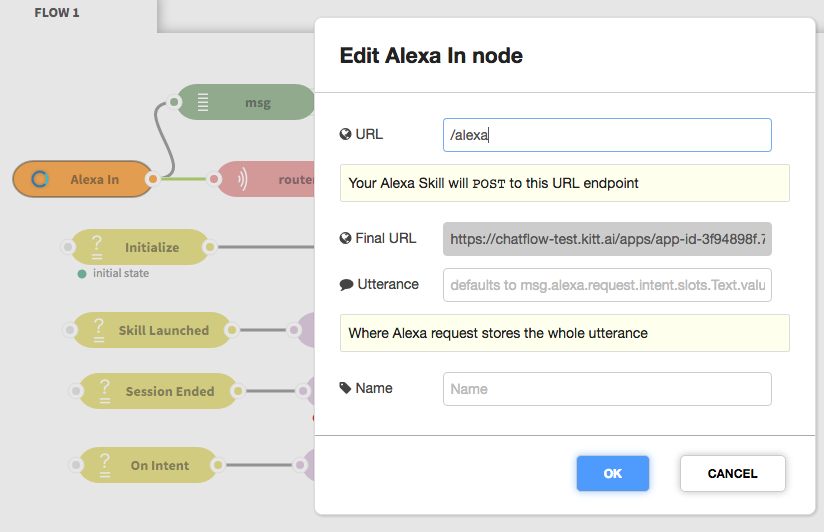
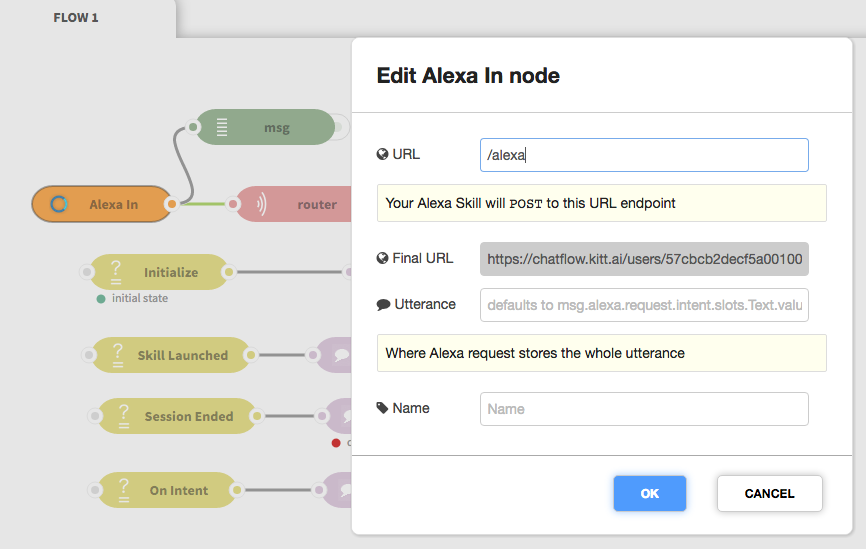
alexa europe

diff --git a/chatflow/searchindex.js b/chatflow/searchindex.js
@@ -1,1 +1,1 @@
-Search.setIndex({envversion:49,filenames:["alexa","alexa_advanced","alexa_nlu","build_a_bot","dialogue_nodes","extended_example","facebook","index","kik","oauth2","quickstart","slack","telegram","twilio"],objects:{},objnames:{},objtypes:{},terms:{"479c":[3,4,5,6,8,11],"900584f4":[3,4,5,6,8,11],"boolean":0,"break":[1,5],"catch":[11,12],"default":[0,2,3,5,9,11],"final":[0,1,2,3],"function":[1,3,4,5,8,9],"import":2,"long":[2,5,9,11],"new":[0,1,2,3,5],"null":[1,3,4,5,9,12],"return":[1,3,5,6,8,9,11,12,13],"short":[9,11],"switch":[5,9],"true":[0,1,5],"try":[3,5,9,10,11,12,13],"var":[1,5,9,12],"while":0,_access_token:0,_respons:[5,9,13],_session_end:[0,1],_session_id:[0,6,8,11,12],_session_start:0,_skill_launch:0,_timeout:[0,6,8,12],_user_id:[0,6,8,11,12],abil:[1,3,11],abl:[0,1,3,6,8,9,10,11,12,13],about:4,abov:[4,5,12],accept:[4,5,8,9,11,12,13],access:[0,1,3,4,5,6,7],accesstoken:0,accomplish:4,accord:4,accordingli:[5,13],account:[0,5,7,9,10],achiev:0,acquir:9,acqusit:9,across:[0,1],act:[3,4],action:[0,4,5,8,9,11,12,13],activ:[3,12],activat:13,actual:0,add:2,addit:[0,1,3,4,5,6,8,11,12,13],addition:[0,4,5],address:[0,3,5,9,12,13],adequ:5,administr:11,affirm:5,after:[0,1,3,4,5,6,8,9,11,12,13],afterward:3,again:[3,5,9],against:0,agent:[3,4,5,7],agre:[4,5,9],ahead:[3,12],all:[0,1,2,3,4,5,6,9,11],allow:[4,5,10,11,12,13],allowfullscreen:11,almost:[1,4],alphanumer:13,alreadi:[0,5,10,12,13],also:[0,1,2,4,5,8,9,11,12,13],although:[5,6],alwai:[3,13],amazon:[0,1,2,4,7],among:4,amus:3,analyz:3,ani:[1,2,4,5,6,9,10,11,13],anoth:[0,1,3,4,5,9,13],answer:[3,5,6,8,11],any:5,anyth:[3,5,10],api:3,aplic:13,appear:[0,2,3,5,12],applciat:6,appliact:6,applic:[0,1,3,5],application:3,appreci:5,appropri:[4,5,10,11],arbitrari:4,area:[10,13],arrai:[6,8],array_of:6,arriv:13,arrow:[6,12,13],articl:12,asset:[1,2],assign:[0,1,4,9],assist:2,associ:3,associat:5,assum:[9,12],atch:[1,2],attach:[3,6,7],attempt:1,attribut:1,auth:13,authent:[9,11],author:[4,9,11],automat:[0,9,13],avail:[0,4,5],availalb:0,awai:1,back:[0,3,4,5,6,8,9,11,12],background:2,base:4,basi:3,basic:[2,3],beat:1,becaus:[0,1,3,9],becom:10,been:5,beet:[1,2],befor:[0,3,9,11,12],behalf:9,bell:7,belong:9,below:[2,3,4,5,8,9,11,13],berri:[1,2],besid:3,bet:3,better:5,between:[3,4,9,12],biggest:9,blue:[3,6,12,13],bob:4,bodi:[3,5,8,9,13],boo:[1,2],bookend:4,bootstrap:2,botfath:12,both:[0,3,5,6,8,9],bother:9,botsworth:8,bottom:[1,3],bought:13,box:[1,3,4,5],branch:[3,4],brief:7,broken:[1,2],brows:12,browser:[0,1,3,5],bubbl:3,bucket:4,bui:[3,13],build:2,built:[3,4],busi:[5,12],businesstyp:5,button:3,bye:[5,9,13],call:[0,1,2,3,4,5,9,12],callback:[0,11],cambridg:6,camelcas:13,can:[0,1,2,3,4,5,6,7,8,9,10,11,12,13],cancelint:1,candid:5,cannot:[1,3,6],canva:[3,5,8,10,11,12],capabl:[5,13],capac:12,captur:[0,4,12],cardoutput:1,cardpunchlin:1,care:5,cast:11,categori:[4,6,12],cellphon:0,central:4,certain:12,certificat:0,chaflow:11,chain:11,chang:[0,3,9,11],channel:[4,11],charact:13,chat:[3,5,8,9,10,11,12],chatflow_cat_choos:11,chatid:8,check:[0,3,4,5,6,8,9,11,13],checkbox:[4,9,11],chicago:12,chines:[5,12],choic:4,choice_nam:5,choos:[4,5,6,8],chosen:[3,4,5],citi:6,clarifi:5,clean:[3,6,10,11],clear:9,cleveland:6,click:[0,1,2,3,5,6,8,9,10,11,12,13],client:[9,11],client_id:11,clipboard:[0,3,6,8,9,11,12,13],close:[0,5,13],code:[1,3,4,5,8,9,13],coffe:5,collect:4,com:[8,9,12],combin:5,come:[0,1,3,4,9,13],command:[7,9],comment:13,common:[4,9],commun:[4,7,9],compact:12,compat:9,complet:[1,3,7,9,11],complex:[1,5],complianc:0,compris:4,condit:[3,4,5,9,13],config:6,configr:9,confirm:[4,12],conjunct:7,connect:[3,4,5,6,7,8,9],consid:4,consist:4,consol:[0,2,13],constraint:4,construct:[7,11],consum:[5,12],contact:12,contain:[2,3,4,6,8,10,11,12,13],context:[3,4,7],continu:[0,3],control:[6,8,11,12],conveni:5,convent:3,convers:1,coordin:12,corner:[3,6,8,11,12,13],correct:[1,2,3],correspond:[4,5,8,9,10,11],correspondingli:11,cortana:4,could:4,count:[3,4,9],counter:[6,13],cours:[3,4,5],cover:12,craft:9,create:[3,6,8,11,12],create_facebook_app:6,creation:[3,8],credenti:[3,9,11],criteria:[3,4],crucial:5,current:[0,1,3,4,6,10,11,12],custom:[2,7],dai:6,dash:[4,5],dashboard:[6,9,13],data:[2,9,11],databas:9,deal:0,debug:7,defin:[0,2,3,4,5,9],definit:5,delet:4,delici:5,demand:4,demonstr:[0,12],depend:9,deploi:0,deploy:[0,1,3,4,5,6,8,11],deploymnet:8,describ:[4,6,8],descript:[5,9,11,12],descripton:7,design:4,desir:5,desktop:12,detail:[4,5,8,9,11,12,13],determin:5,dev:8,develop:[0,2,4,5,9],devic:[0,1,8],dialog:9,dialogu:[1,3],dictat:3,dictionari:5,did:[0,9],didn:[3,5],differ:[0,3,4,5,8,9,11],dinner:12,direct:3,directli:[4,5,10],disabl:11,disastr:5,discuss:0,displai:[0,13],display_address:12,display_nam:9,district:5,document:[4,5,6,7,9,13],doe:[0,1,2,3,4,5,8,11,12,13],domain:0,don:[3,5,8,9,12,13],done:0,dont:5,dot:3,doubl:[3,5,6,8,9,11,12,13],down:[3,5,6,11,12,13],download:[3,5,6,8,9,11,12,13],downtown:12,drag:[3,5,6,8,11,12],drive:4,drop:[3,6,9,11,12,13],dump:3,duplic:13,dure:4,each:[3,4,5,6,9,10,11,13],easi:5,easier:5,easili:[1,2,3,4],eat:5,edit:[3,5,6,8,9,11,12,13],editor:[3,4,5,9,10,11,12],effect:5,either:[3,5,6,8,11,12],elig:4,els:[3,5,10,12],email:6,empti:[3,9,10,12],enabl:[0,9,11,12,13],enabled:12,encod:12,end:[0,1,3,4,5,6,8,9,10,11,12,13],endless:4,endpoint:[9,11],engag:0,engin:[2,7],enjoi:2,ensur:[4,5],enter:[0,1],entir:[3,4,5],entiti:[1,2,3,4,5],entranc:[3,4,5],entri:4,entrnac:5,enum_choic:5,environ:1,equal:4,err:12,error:5,especi:13,evalu:4,even:[4,9],everi:[9,12],everyth:[0,1,2],exampl:[0,2,3,4],except:2,exchang:9,execut:[4,5],exemplifi:12,exist:[4,9],exit:[0,3,4],expand:[3,12],expect:[0,2,11,12],expir:9,explicit:4,explicitli:0,explor:6,express:2,extern:[0,4,7],extra:13,extract:5,fade:9,faebook:6,fake:[9,13],fals:[0,5],far:[0,5],fast:12,father:12,featur:[2,3,5,6,9,11,13],feedback:5,feel:[3,5,12],fetch:9,few:[4,7],field:[2,3,4,5,6,9,11,12,13],figur:[3,5],file:[1,2,3,5,12],fill:[0,2,9,13],filter:6,find:[3,5,11,13],finit:[3,4],finsh:13,firebrand:2,first:[0,3,4,5,8,9,13],first_nam:9,floor:1,flow:3,fly:2,follow:[0,1,2,3,4,5,6,8,9,11,12,13],food:[5,12],forc:0,forget:[5,8,9],forgotten:9,form:[0,3,4,5,13],format:0,forth:12,found:[0,5,12],four:5,fourth:9,framebord:11,francisco:5,from:[0,1],full:12,fulli:[3,5],fun:9,further:[0,5],game:11,gener:[2,4,5,6,9],geoloc:12,get:[0,1,3],github:10,give:[0,1,2,3,5,8,9,12],given:[0,1,5,9],glad:5,global:[1,8,9],goal:[4,5],goe:4,good:[5,9],goodby:[5,10],googl:[4,10],got:[5,12],gotta:0,gps:12,grai:9,grammar:1,gratitud:5,great:[0,2,5,10],greater:4,greet:[5,6,9,11],grei:3,grid:[11,12,13],guarante:13,gui:[1,2],guid:5,had:[3,9],halt:3,hand:[6,11,12,13],handl:[0,3,5],happen:[4,11],happi:[2,5],have:[0,1,2,3,4,5,9,11,12,13],head:3,hear:5,heard:0,hello:[0,3,5,6,9,10,11,12],help:[0,1,5,9,11],helpintent:1,her:9,here:[0,3,4,5,7,8,9,11,13],high:13,highlight:[1,13],him:8,histori:9,hit:[1,13],hmm:5,hold:[0,4],holder:12,home:3,honor:3,hope:2,host:[9,10],hour:[5,9],how:[0,1,2,3,4,5,6,8,9,10,11,12,13],howev:[0,3,6,13],http:[3,4,5,6,8,9,10,11,12],human:12,icon:[9,13],idea:[5,9,11],ident:4,identifi:9,idl:13,illustr:3,imag:[3,4,8,9,11,12],image_url:[5,12],immedi:[2,4,9],implement:2,improv:2,inaccur:2,includ:[3,4,5,12],incom:[0,4,11,13],incorpor:2,increas:13,index:1,indic:1,individu:11,infinit:4,info:[4,5,10],info_request:5,inform:[0,3,5,8,9,10,12],init:1,initi:[1,3,4,5,13],initial:3,inlin:12,inline:7,inline_queri:12,inlinequeryresult:12,input:[0,1],input_message_cont:12,inqueri:12,insert:3,insid:[3,11],insight:0,insist:3,inspect:0,install:8,installer:[6,12,13],instanc:4,instead:[0,12],instruct:0,integr:[5,11],integrat:11,intentrequest:0,inter:4,interact:[0,2,3,4,5,7,8,9,10],interfac:[1,2,5,7],intern:4,introduc:[0,3],intuit:[1,7],invoc:0,involv:4,isn:9,issu:[3,5],javascript:4,job:4,join:[12,13],joke_list:1,jokeid:1,jose:3,json:[2,3,5,6,8,11,12],jump:12,just:[3,5,9,13],keep:[3,5,7,9],kei:[4,5,8,9,12],kept:9,kevin:2,keyboard:7,kik:7,kikbot:8,kill:13,kind:5,kit:[0,2],kitt:[0,1,2,3,4,5,6,8,9,10,11,12,13],kitt_skill_launch:0,know:[0,9,13],label:4,ladi:[1,2],languag:0,last:[4,5,9],later:[0,1,4,9,11],latitud:12,launchrequest:0,learn:[4,10,11,12],leav:[3,9,13],left:[3,10,11,13],lefthand:3,length:[1,5,9,12,13],let:[0,3,5,8,9,11,12],librari:[4,6,10,11,12,13],like:[0,3,4,5,6,8,9,11,13],limit:[1,5,11],limitless:4,line:[0,4,5,9],link:0,list:[2,3,4,5,6,11,12,13],list_of_setup_names:1,list_of_setupnam:2,listen:0,literal:0,littl:[1,2,3],load:[3,6],locat:[4,5],log:[0,10,13],login:9,longer:13,longitud:12,look:[0,1,3,5,6,8,9,10,11,12,13],loop:[4,5],lower:9,luckili:2,macleod:2,made:[4,5],mai:[4,5,6,8,9,11,13],main:[1,3,4,10,13],maintain:1,make:[0,1,2,4,5,8,9,11,12,13],make_restaurant_reserv:4,manag:[1,6,9,11,12],mani:[3,4,9],manipul:4,manner:[9,12],manual:[2,13],map:[3,4],mari:4,mark:[2,3,4,5],match:[0,2,4],math:1,matsuhisa:4,mean:4,mechan:4,meeting_loc:4,member:11,mention:[11,12],menu:[11,12,13],messag:[0,1,3,4,5,6,7,8,9,10],message_text:12,messeng:[6,7],met:4,method:[9,12],mexican:5,microsoft:4,mid:6,might:[0,5],migrat:2,minim:2,minut:2,mistak:5,mock:9,mockdatabas:9,mode:[12,13],model:[0,2,3,5],month:9,morn:5,most:4,mostli:[5,9],movi:4,msg:[0,1,3,4,5,6,8,9,11,12,13],much:5,multi:0,multipl:[1,4,13],music:2,must:[3,4,5,6,13],nacho:5,nah:3,name:[0,1,2,3,4,5,6,8,9,11,12,13],navig:10,necessari:5,need:[1,2,3,4,5,9,11,12],neg:5,negative_respons:3,neither:5,network:[3,4,5],never:3,newbot:12,newli:[3,6],next:[0,1,5,6,9,12],nice:[11,12,13],night:5,nlu:0,non:5,none:[4,5],nope:5,nor:5,note:[4,13],noth:3,notic:13,now:[0,1,3,5,6,9,10,11,12,13],number:[3,4,5,7,11,13],numresult:5,oauth2:7,oauth:9,object:[0,4,6,9,11],observ:2,obtain:[5,9],occurr:4,offici:10,often:4,okai:[5,12],old:[1,2,9],onc:[3,4,5,9,11],once:[3,4,5,9,11,12],one:[1,3],onli:[0,2,3],onlin:[6,11,12],only:9,onto:[0,3,6,8,11],oop:5,open:[0,3,5,6,8,9,11,12,13],oper:[3,5],opit:0,opportun:4,optim:3,option:[0,3,4,5,6,8,9,12,13],order:[3,4,5,9,11,12,13],organ:[4,6],orient:10,origin:[3,4,6,8,12],other:[3,4,5,6,9,11,12,13],otherwis:[0,3,6,7],our:[3,4,5,6,7,8,10,11,12],ourselv:0,outcom:5,outgo:[0,4],output:[0,1,2],outputspeech:[0,1],outsid:4,over:[1,3,4],overriden:13,owl:[1,2],own:[0,4,9,12,13],packag:5,padlock:13,page:[3,5],pain:2,pair:[3,4],palett:[6,9,12],panel:[9,13],paradigm:5,part:[4,5,6,8,9,11,13],partial:3,participant_nam:4,party_s:4,pass:[3,4,9],past:[0,3,4,5,6,8,9,11,12,13],payload:[0,3,4,5,6,8,9,11,12,13],payment:13,pencil:[1,2,9],peopl:4,perfect:0,perform:[0,2,4,5],perk:12,persist:[0,1,3,4,9],perviou:[0,5],phase:1,phone:[0,9,12,13],photo:12,phrase:[2,5],pic:0,pick:[0,5],pictur:[4,11],piec:9,place:[3,4,5,9,11,12],plai:[0,3,5,12],plaintext:0,platform:[3,4,7,10],pleas:[1,2,3,4,5,9],plu:9,plug:0,png:12,point:[1,4,5],polici:9,pop:[2,3,10],popul:[10,12],portion:8,posit:5,positive_respons:3,possibl:[4,9],post:11,pre:4,precis:4,predefin:9,predict:2,prefix:3,prepar:[5,7],present:4,press:[9,11,12,13],prevent:4,previou:[1,2,11,13],previous:9,price:4,primari:9,print:[9,13],prioriti:[4,5],privaci:[0,9],problem:[5,9],proce:[1,9],proceed:3,process:2,produc:[3,4,5],product:[0,6],profil:9,program:[12,13],prompt:5,properti:[0,3,4,5,9,11,12,13],protect:9,provid:[0,2,4,5,7,8,9,10,11,12,13],publish:0,push:12,put:5,queri:4,quick:[6,7],quickli:2,quota:11,rain:6,random:[1,6,11],randomcat:11,randomli:5,rank:4,rate:[5,12],rather:4,raw:[3,11],raw_messag:11,raw_message_properti:11,reach:[3,4,11],read:[9,13],readi:[5,11],real:[0,3,9],receiv:[4,6,8,9,11,12,13],recent:5,recipi:[6,13],recognit:0,recommend:[0,13],reconsid:3,recreat:1,red:[3,4],redefin:13,redeploi:11,redicrect_uri:11,redirect:9,ref:6,refer:[5,6,8],reflect:0,refresh:[9,10],regard:12,regex:4,regist:[0,8],registr:13,regular:2,reivew:5,reject:[4,5],relat:9,rememb:[1,4],remot:0,remov:[3,5,9,13],repeat:[0,5,6,11],replac:13,repli:[0,6],repres:4,represent:12,reproduc:2,reprompttext:1,req_pend:5,reqreadi:5,request_address:5,request_hour:5,request_more_opt:5,request_r:5,request_suggest:5,requir:[5,9,11,12],reserv:4,reset:[4,13],resourc:[7,9,10],respect:[2,3],respond:[0,5,10,11,12,13],respons:[0,3,4,5,9,12],rest:[0,4,9],restaur:5,restaurant_nam:4,restful:3,restor:9,restrict:3,result:[3,4],retriev:[1,9],revers:7,review:[5,12],review_count:[5,12],ride:9,right:[1,3,4,6,8,10,11,12,13],robust:5,room:4,rough:12,router:[0,1],rule:9,run:[4,13],sai:[0,1,2,3,4,5,10],said:[0,3,5],same:[0,1,4,5,8,9],san:5,satisfi:4,save:[5,6,9,11,12,13],scan:8,scenario:[5,9],schema:[0,1,2],scope:9,screen:[3,4,13],screenshot:12,seafood:12,seamlessli:5,search:[5,6,12,13],seattl:[5,12],second:[0,5,9,13],secret:[5,9,11,12],section:[0,2,3,4,5,6,8,9,10,11,12,13],see:[0,1,3,4,5,6,8,9,11,13],select:[0,1,3,4,5,6,8,9,10,11,12],selectbot:[11,12],send:[0,1,4,6],sender:[6,8,13],sendvenu:12,sens:4,sensit:3,sent:[0,4,8,11,12,13],sentenc:[0,3],separ:6,seq:6,sequenc:[4,6],serv:11,server:[0,8,9,11,12],servic:[0,1,4,7],session:[0,1,3,6,7,9,11,12],sessionattribut:[0,1],sessionendedrequest:0,sessionid:0,set:[0,1,3,4,5,6,7],setinlin:12,setinlinegeo:12,setup:1,setupnam:[1,2],setupnamewhoint:[1,2],sever:[4,10],shall:3,share:[9,12],shift:5,should:[0,2,3,4,5,6,8,9,11,12,13],shouldendsess:0,show:[0,2,3,6,8,11,12,13],showcas:5,shown:[2,3,4,9,13],sid:13,side:[10,11,13],sign:[5,13],similar:5,similarli:1,simpl:[0,3,5],simpli:[0,3,4],simplic:9,simplifi:9,simplist:12,simul:[0,1],sinc:3,singl:[0,3],situat:5,six:4,skip:[6,9,13],slack:7,slash:7,slot:[0,1,2],slowli:0,small:[5,11],smart:[0,7],smooth:[0,2],sms:[4,7,9,13],snow:[1,2],solid:4,solut:2,some:9,someon:12,someth:[3,5,8],sorri:[3,5],sound:5,sourc:[1,9],speak:1,special:[3,9],specif:[0,3,4,5,8,9],specifi:[0,3,9],speech:[0,1,2,5,7],speechpunchlin:1,speechtext:1,spell:[1,2],split:[9,12,13],split_len:12,ssml:[0,1],stage:1,stai:12,star:5,start:[0,3],start_citi:9,state:0,state_choic:5,statu:5,step:[0,1,2,6,9,11],sticker:12,still:[1,2,4,5,7,9,12],stop:9,stopintent:1,storag:9,store:[1,3,5,6,9],str:5,string:[0,3,4,6,8,11,13],structur:[0,12],style:2,sub:13,submit:[0,3],subscrib:6,subscript:6,successfulli:[1,11],sue:4,suggest:[0,5,8],superint:0,support:[0,1,2,3,5,7,8,11,12],sure:[3,5,13],symbol:4,system:[2,3,4,5],tab:[3,4,5,9,10],taco:5,tag:[0,1,3,5,8,11,12,13],take:[0,1,5,9,12],taken:13,talk:[10,12],tap:8,task:10,teach:2,telegram:[7,11],tellmeajokeint:[1,2],templat:3,ten:5,term:[5,9],text:[0,1,3,5,6,7,8,9,11,12,13],than:[3,4,9],thank:[3,5],thei:[4,9,11],them:[0,2,3,5,6,8,9,11,12,13],thi:[0,1,2,3,4,5,6,7,8,9,10,11,12,13],thing:2,think:4,third:[5,9,13],those:[0,5,9,13],thought:4,three:[0,2,5,11],through:[0,1,3,4],throughout:[4,5],thu:[1,3],thumb_url:12,tidi:[11,12,13],time:[0,1,3,4,5,9,12,13],timeout:[6,12],timestamp:6,titl:12,togeth:[3,5,8],token:[0,3,4,5,6,8],tokyo:5,too:[4,8,9,13],tool:0,top:[3,8],touch:8,toward:3,train:3,tri:9,trial:13,trick:0,trim:12,tune:13,twilio:[4,7],twitter:10,two:[0,3,4,5,9,11,12],type:[0,1,2,4,5,8,10,12],typic:4,uber:[4,7],uber_oauth2:9,ultim:0,unchang:[9,13],under:[0,3,4,5,6,7,10,11,12],understand:[0,3,4],unicod:13,uniqu:[8,11,12],univeristi:5,unlik:4,unlike:4,unpublish:0,updat:[3,4,5],update:4,upon:9,upper:[3,6,8,9,11,12],uri:11,url:[0,1,3,4,5,6,8,9],usabl:9,usag:0,use:[1,3,5,6,8,9,10,11,12],user:[0,1,2,3,4],user_choic:5,userid:0,usernam:[8,11,12],using:[1,8],usual:4,utter:[0,1,2,3,4,5],valid:9,valu:[0,4,5,6,9,13],vari:4,variabl:[1,3,4,5,8,11,13],variou:[7,10],venu:12,verbatim:0,verbos:2,veri:[0,9],verif:6,verifi:6,version:0,via:[1,4,9,12],viabl:4,view:[11,12,13],visibl:13,visit:[1,4,11],visual:7,vocabulari:[0,4],voic:0,vote:11,wai:[0,3,4,7,9,13],wait:[0,3,10],walk:[1,3,5,9],walkthrough:0,want:[0,4,5,9,12,13],washington:5,web:[4,8,9,10],webhook:[0,6,11],welcom:[0,5],well:5,were:9,what:[0,1,2,3,4,5],when:[0,1,3,4,5,6,8,9,10,11,12,13],whenev:[1,3,4,5,11],where:[4,5,6,8,9,10],whether:[3,5],which:[0,3,4,5,8,9,13],whistl:7,who:[0,1,2],whole:[0,1,13],whom:1,whosthereint:[1,2],wildcard:0,window:[3,9,12],wire:[3,4,12],wise:[1,2],wish:[3,5],within:[1,2,3,4],without:[0,1,3,9,13],won:9,woo:[1,2],word:[0,4],work:[0,1,4,5,7,11,12],workspac:6,world:[4,9,10],would:[0,3,5,6,8],wrap:[0,4],wrapper:4,write:[5,8,11,13],written:6,wrong:9,xuchen:8,xxx:[3,4,5,6,8,11],yeah:5,yellow:13,yelp:4,yelp_result:5,yet:[3,5,9],you:[0,1,2,3,5,6,8,9,10,11,12,13],yourself:10,zero:4,zip:5},titles:["Alexa Skill Tutorials","Advanced Alexa Skill Tutorial","Advanced Alexa Skill NLU Tutorial","ChatFlow Build A Bot Tutorial","Dialogue Nodes","Extended Example: A Conversational Yelp Bot","Facebook Tutorials","Welcome to ChatFlow","Kik Bot Tutorials","OAuth2/Uber Tutorials","ChatFlow Quick Start","Slack Bot Tutorials","Telegram Bot Tutorials","Twilio Bot Tutorials"],titleterms:{"case":[3,5],"export":[2,3],"final":[4,5],"function":13,"import":[3,6,8,11,12],"new":[6,10,11,12,13],about:5,access:[9,10],account:13,acquir:12,add:[3,13],adding:3,advanc:[0,1,2,6,8,11,13],alexa:[0,1,2],answere:5,api:[4,12],app:[0,1,3,8,10,11,13],applic:[6,8,9,11],applicat:[1,8,9,11,12,13],ask:0,attach:8,attachment:8,aware:12,basic:[4,13],bot:[0,3,5,6,8,9,11,12,13],browser:8,build:3,button:6,card:0,cat:[0,8,11],certif:0,chatflow:[0,1,3,4,6,7,8,10,11,12,13],choic:5,choos:11,collect:5,color:8,command:11,companion:0,configur:[0,3,4,5,9,11,12,13],connect:11,content:[0,1,2,3,4,5,6,7,8,9,10,11,12,13],convers:[3,5],copi:0,creat:[0,1,2,3,5,6,8,9,10,11,12,13],credenti:12,custom:8,deal:3,debug:13,demo:8,deploi:[3,11,12,13],descripton:9,dialogu:4,direct:4,echo:[0,6,8,11,12],enter:[3,4],exampl:5,explain:1,extend:5,facebook:6,finish:0,flow:[4,5,9,12],forecast:6,format:2,free:3,from:[3,4,5,10,13],fulfil:5,get:5,informat:[0,5],initial:5,inline:12,input:[3,4],intent:0,interact:11,introduct:[0,1,2,3,5,9,10,13],joke:1,keyboard:8,kik:8,knock:1,languag:3,launch:0,link:4,locat:12,lunch:3,messag:11,miss:5,mobil:8,more:0,multi:1,natur:3,nlu:[2,3,4,5,6,8,11],node:[0,3,4,6,8,9,11,12,13],oauth2:9,onli:4,ordere:4,out:[0,6,8,11,12,13],output:[3,4],overview:1,page:6,prefer:4,prepar:13,present:5,process:3,project:[2,5,10],queri:5,question:5,quick:10,reconfigur:3,redirect:11,regist:9,reprompt:0,request:[0,5],result:5,reus:9,revers:13,router:[3,4,13],sampl:[0,10],scratch:[3,13],send:8,servic:9,session:13,set:[8,11,12],setup:[6,8,11,12],simpl:[6,8,9,11,12,13],skill:[0,1,2],slack:11,slash:11,ssl:0,start:[5,10],state:[1,3,4],statu:12,summari:[2,4],support:13,tabl:[0,1,2,3,4,5,6,8,9,10,11,12,13],team:11,telegram:12,tell:[0,1],templat:6,test:[0,9,11],thought:5,through:5,todo:[0,8,11],token:[9,12],track:1,turn:1,tutori:[0,1,2,3,6,8,9,11,12,13],twilio:13,uber:9,unabl:3,understand:5,url:11,user:5,utteranc:0,video:[0,1,3,6,8,9,11,12,13],walkthrough:[3,8,12],weather:6,welcom:7,wisegui:1,yelp:[5,12],your:[0,5,11]}})
+Search.setIndex({envversion:49,filenames:["alexa","alexa_advanced","alexa_nlu","build_a_bot","dialogue_nodes","extended_example","facebook","index","kik","oauth2","quickstart","slack","telegram","twilio"],objects:{},objnames:{},objtypes:{},terms:{"479c":[3,4,5,6,8,11],"900584f4":[3,4,5,6,8,11],"boolean":0,"break":[1,5],"catch":[11,12],"default":[0,2,3,5,9,11],"final":[0,1,2,3],"function":[1,3,4,5,8,9],"import":2,"long":[2,5,9,11],"new":[0,1,2,3,5],"null":[1,3,4,5,9,12],"return":[1,3,5,6,8,9,11,12,13],"short":[9,11],"switch":[5,9],"true":[0,1,5],"try":[3,5,9,10,11,12,13],"var":[1,5,9,12],"while":0,_access_token:0,_respons:[5,9,13],_session_end:[0,1],_session_id:[0,6,8,11,12],_session_start:0,_skill_launch:0,_timeout:[0,6,8,12],_user_id:[0,6,8,11,12],abil:[1,3,11],abl:[0,1,3,6,8,9,10,11,12,13],about:4,abov:[4,5,12],accept:[4,5,8,9,11,12,13],access:[0,1,3,4,5,6,7],accesstoken:0,accomplish:4,accord:4,accordingli:[5,13],account:[0,5,7,9,10],achiev:0,acquir:9,acqusit:9,across:[0,1],act:[3,4],action:[0,4,5,8,9,11,12,13],activ:[3,12],activat:13,actual:0,add:2,addit:[0,1,3,4,5,6,8,11,12,13],addition:[0,4,5],address:[0,3,5,9,12,13],adequ:5,administr:11,affirm:5,after:[1,3,4,5,6,8,9,11,12,13],afterward:3,again:[3,5,9],against:0,agent:[3,4,5,7],agre:[4,5,9],ahead:[3,12],all:[0,1,2,3,4,5,6,9,11],allow:[4,5,10,11,12,13],allowfullscreen:11,almost:[1,4],alphanumer:13,alreadi:[0,5,10,12,13],also:[0,1,2,4,5,8,9,11,12,13],although:[5,6],alwai:[3,13],amazon:[0,1,2,4,7],america:0,among:4,amus:3,analyz:3,ani:[1,2,4,5,6,9,10,11,13],anoth:[0,1,3,4,5,9,13],answer:[3,5,6,8,11],any:5,anyth:[3,5,10],api:3,aplic:13,appear:[0,2,3,5,12],applciat:6,appliact:6,applic:[0,1,3,5],application:3,appreci:5,appropri:[4,5,10,11],arbitrari:4,area:[10,13],arrai:[6,8],array_of:6,arriv:13,arrow:[6,12,13],articl:12,asset:[1,2],assign:[0,1,4,9],assist:2,associ:3,associat:5,assum:[9,12],atch:[1,2],attach:[3,6,7],attempt:1,attribut:1,auth:13,authent:[9,11],author:[4,9,11],automat:[0,9,13],avail:[0,4,5],availalb:0,awai:1,back:[0,3,4,5,6,8,9,11,12],background:2,base:4,basi:3,basic:[2,3],beat:1,becaus:[0,1,3,9],becom:10,been:5,beet:[1,2],befor:[0,3,9,11,12],behalf:9,bell:7,belong:9,below:[2,3,4,5,8,9,11,13],berri:[1,2],besid:3,bet:3,better:5,between:[3,4,9,12],biggest:9,blue:[3,6,12,13],bob:4,bodi:[3,5,8,9,13],boo:[1,2],bookend:4,bootstrap:2,botfath:12,both:[0,3,5,6,8,9],bother:9,botsworth:8,bottom:[1,3],bought:13,box:[1,3,4,5],branch:[3,4],brief:7,broken:[1,2],brows:12,browser:[0,1,3,5],bubbl:3,bucket:4,bui:[3,13],build:2,built:[3,4],busi:[5,12],businesstyp:5,button:3,bye:[5,9,13],call:[0,1,2,3,4,5,9,12],callback:[0,11],cambridg:6,camelcas:13,can:[0,1,2,3,4,5,6,7,8,9,10,11,12,13],cancelint:1,candid:5,cannot:[1,3,6],canva:[3,5,8,10,11,12],capabl:[5,13],capac:12,captur:[0,4,12],cardoutput:1,cardpunchlin:1,care:5,cast:11,categori:[4,6,12],cellphon:0,central:4,certain:12,certifi:0,certificat:0,chaflow:11,chain:11,chang:[3,9,11],channel:[4,11],charact:13,chat:[3,5,8,9,10,11,12],chatflow_cat_choos:11,chatid:8,check:[0,3,4,5,6,8,9,11,13],checkbox:[4,9,11],chicago:12,chines:[5,12],choic:4,choice_nam:5,choos:[0,4,5,6,8],chosen:[3,4,5],citi:6,clarifi:5,clean:[3,6,10,11],clear:9,cleveland:6,click:[0,1,2,3,5,6,8,9,10,11,12,13],client:[9,11],client_id:11,clipboard:[0,3,6,8,9,11,12,13],close:[0,5,13],code:[1,3,4,5,8,9,13],coffe:5,collect:4,com:[8,9,12],combin:5,come:[0,1,3,4,9,13],command:[7,9],comment:13,common:[4,9],commun:[4,7,9],compact:12,compat:9,complet:[1,3,7,9,11],complex:[1,5],complianc:0,compris:4,condit:[3,4,5,9,13],config:6,configr:9,confirm:[4,12],conjunct:7,connect:[3,4,5,6,7,8,9],consid:4,consist:4,consol:[0,2,13],constraint:4,construct:[7,11],consum:[5,12],contact:12,contain:[2,3,4,6,8,10,11,12,13],context:[3,4,7],continu:[0,3],control:[6,8,11,12],conveni:5,convent:3,convers:1,coordin:12,corner:[3,6,8,11,12,13],correct:[1,2,3],correspond:[4,5,8,9,10,11],correspondingli:11,cortana:4,could:4,count:[3,4,9],counter:[6,13],cours:[3,4,5],cover:12,craft:9,create:[3,6,8,11,12],create_facebook_app:6,creation:[3,8],credenti:[3,9,11],criteria:[3,4],crucial:5,current:[0,1,3,4,6,10,11,12],custom:[0,2,7],dai:6,dash:[4,5],dashboard:[6,9,13],data:[2,9,11],databas:9,deal:0,debug:7,defin:[0,2,3,4,5,9],definit:5,delet:4,delici:5,demand:4,demo:0,demonstr:[0,12],depend:9,deploi:0,deploy:[0,1,3,4,5,6,8,11],deploymnet:8,describ:[4,6,8],descript:[5,9,11,12],descripton:7,design:4,desir:5,desktop:12,detail:[4,5,8,9,11,12,13],determin:5,dev:8,develop:[0,2,4,5,9],devic:[0,1,8],dialog:9,dialogu:[1,3],dictat:3,dictionari:5,did:[0,9],didn:[3,5],differ:[0,3,4,5,8,9,11],dinner:12,direct:3,directli:[4,5,10],disabl:11,disastr:5,discuss:0,displai:[0,13],display_address:12,display_nam:9,district:5,document:[4,5,6,7,9,13],doe:[0,1,2,3,4,5,8,11,12,13],domain:0,don:[3,5,8,9,12,13],done:0,dont:5,dot:3,doubl:[3,5,6,8,9,11,12,13],down:[3,5,6,11,12,13],download:[3,5,6,8,9,11,12,13],downtown:12,drag:[3,5,6,8,11,12],drive:4,drop:[3,6,9,11,12,13],dump:3,duplic:13,dure:4,each:[3,4,5,6,9,10,11,13],easi:5,easier:5,easili:[1,2,3,4],eat:5,edit:[3,5,6,8,9,11,12,13],editor:[3,4,5,9,10,11,12],effect:5,either:[3,5,6,8,11,12],elig:4,els:[3,5,10,12],email:6,empti:[3,9,10,12],enabl:[0,9,11,12,13],enabled:12,encod:12,end:[0,1,3,4,5,6,8,9,10,11,12,13],endless:4,endpoint:[9,11],engag:0,engin:[2,7],english:0,enjoi:2,ensur:[4,5],enter:[0,1],entir:[3,4,5],entiti:[1,2,3,4,5],entranc:[3,4,5],entri:4,entrnac:5,enum_choic:5,environ:1,equal:4,err:12,error:5,especi:13,evalu:4,even:[4,9],everi:[9,12],everyth:[0,1,2],exampl:[0,2,3,4],except:2,exchang:9,execut:[4,5],exemplifi:12,exist:[4,9],exit:[0,3,4],expand:[3,12],expect:[0,2,11,12],experi:0,expir:9,explicit:4,explicitli:0,explor:6,express:2,extern:[0,4,7],extra:13,extract:5,fade:9,faebook:6,fake:[9,13],fals:[0,5],far:[0,5],fast:12,father:12,featur:[2,3,5,6,9,11,13],feedback:5,feel:[3,5,12],fetch:9,few:[4,7],field:[2,3,4,5,6,9,11,12,13],figur:[3,5],file:[1,2,3,5,12],fill:[0,2,9,13],filter:6,find:[3,5,11,13],finit:[3,4],finsh:13,firebrand:2,first:[0,3,4,5,8,9,13],first_nam:9,floor:1,flow:3,fly:2,follow:[0,1,2,3,4,5,6,8,9,11,12,13],food:[5,12],forc:0,forget:[5,8,9],forgotten:9,form:[0,3,4,5,13],format:0,forth:12,found:[0,5,12],four:5,fourth:9,framebord:11,francisco:5,from:[0,1],full:12,fulli:[3,5],fun:9,further:[0,5],game:11,gener:[2,4,5,6,9],geoloc:12,german:0,get:[0,1,3],github:10,give:[0,1,2,3,5,8,9,12],given:[0,1,5,9],glad:5,global:[1,8,9],goal:[4,5],goe:4,good:[5,9],goodby:[5,10],googl:[4,10],got:[5,12],gotta:0,gps:12,grai:9,grammar:1,gratitud:5,great:[0,2,5,10],greater:4,greet:[5,6,9,11],grei:3,grid:[11,12,13],guarante:13,gui:[1,2],guid:[0,5],had:[3,9],halt:3,hand:[6,11,12,13],handl:[0,3,5],happen:[4,11],happi:[2,5],have:[0,1,2,3,4,5,9,11,12,13],head:3,hear:5,heard:0,hello:[0,3,5,6,9,10,11,12],help:[0,1,5,9,11],helpintent:1,her:9,here:[0,3,4,5,7,8,9,11,13],high:13,highlight:[1,13],him:8,histori:9,hit:[1,13],hmm:5,hold:[0,4],holder:12,home:3,honor:3,hope:2,host:[9,10],hour:[5,9],how:[0,1,2,3,4,5,6,8,9,10,11,12,13],howev:[0,3,6,13],http:[3,4,5,6,8,9,10,11,12],human:12,icon:[9,13],idea:[5,9,11],ident:4,identifi:9,idl:13,illustr:3,imag:[3,4,8,9,11,12],image_url:[5,12],immedi:[2,4,9],implement:2,improv:2,inaccur:2,includ:[3,4,5,12],incom:[0,4,11,13],incorpor:2,increas:13,index:1,indic:1,individu:11,infinit:4,info:[4,5,10],info_request:5,inform:[0,3,5,8,9,10,12],init:1,initi:[1,3,4,5,13],initial:3,inlin:12,inline:7,inline_queri:12,inlinequeryresult:12,input:[0,1],input_message_cont:12,inqueri:12,insert:3,insid:[3,11],insight:0,insist:3,inspect:0,install:8,installer:[6,12,13],instanc:4,instead:[0,12],instruct:0,integr:[5,11],integrat:11,intentrequest:0,inter:4,interact:[0,2,3,4,5,7,8,9,10],interfac:[1,2,5,7],intern:4,introduc:[0,3],intuit:[1,7],invoc:0,involv:4,isn:9,issu:[3,5],javascript:4,job:4,join:[12,13],joke_list:1,jokeid:1,jose:3,json:[2,3,5,6,8,11,12],jump:12,just:[3,5,9,13],keep:[3,5,7,9],kei:[4,5,8,9,12],kept:9,kevin:2,keyboard:7,kik:7,kikbot:8,kill:13,kind:5,kit:[0,2],kitt:[0,1,2,3,4,5,6,8,9,10,11,12,13],kitt_skill_launch:0,know:[0,9,13],label:4,ladi:[1,2],languag:0,last:[4,5,9],later:[0,1,4,9,11],latitud:12,launchrequest:0,learn:[4,10,11,12],leav:[3,9,13],left:[3,10,11,13],lefthand:3,length:[1,5,9,12,13],let:[0,3,5,8,9,11,12],librari:[4,6,10,11,12,13],like:[0,3,4,5,6,8,9,11,13],limit:[1,5,11],limitless:4,line:[0,4,5,9],link:0,list:[2,3,4,5,6,11,12,13],list_of_setup_names:1,list_of_setupnam:2,listen:0,literal:0,littl:[1,2,3],load:[3,6],locat:[4,5],log:[0,10,13],login:9,longer:13,longitud:12,look:[0,1,3,5,6,8,9,10,11,12,13],loop:[4,5],lower:9,luckili:2,macleod:2,made:[4,5],mai:[4,5,6,8,9,11,13],main:[1,3,4,10,13],maintain:1,make:[0,1,2,4,5,8,9,11,12,13],make_restaurant_reserv:4,manag:[1,6,9,11,12],mani:[3,4,9],manipul:4,manner:[9,12],manual:[2,13],map:[3,4],mari:4,mark:[2,3,4,5],match:[0,2,4],math:1,matsuhisa:4,mean:4,mechan:4,meeting_loc:4,member:11,mention:[11,12],menu:[11,12,13],messag:[0,1,3,4,5,6,7,8,9,10],message_text:12,messeng:[6,7],met:4,method:[9,12],mexican:5,microsoft:4,mid:6,might:[0,5],migrat:[0,2],minim:2,minut:2,mistak:5,mock:9,mockdatabas:9,mode:[12,13],model:[0,2,3,5],month:9,morn:5,most:4,mostli:[5,9],movi:4,msg:[0,1,3,4,5,6,8,9,11,12,13],much:5,multi:0,multipl:[1,4,13],music:2,must:[3,4,5,6,13],nacho:5,nah:3,name:[0,1,2,3,4,5,6,8,9,11,12,13],navig:10,necessari:5,need:[1,2,3,4,5,9,11,12],neg:5,negative_respons:3,neither:5,network:[3,4,5],never:3,newbot:12,newli:[3,6],next:[0,1,5,6,9,12],nice:[11,12,13],night:5,nlu:0,non:5,none:[4,5],nope:5,nor:5,north:0,note:[4,13],noth:3,notic:13,novemb:0,now:[0,1,3,5,6,9,10,11,12,13],number:[3,4,5,7,11,13],numresult:5,oauth2:7,oauth:9,object:[0,4,6,9,11],observ:2,obtain:[5,9],occurr:4,offici:10,often:4,okai:[5,12],old:[1,2,9],onc:[3,4,5,9,11],once:[3,4,5,9,11,12],one:[1,3],onli:[0,2,3],onlin:[6,11,12],only:9,onto:[0,3,6,8,11],oop:5,open:[0,3,5,6,8,9,11,12,13],oper:[3,5],opit:0,opportun:4,optim:3,option:[0,3,4,5,6,8,9,12,13],order:[3,4,5,9,11,12,13],organ:[4,6],orient:10,origin:[3,4,6,8,12],other:[3,4,5,6,9,11,12,13],otherwis:[0,3,6,7],our:[3,4,5,6,7,8,10,11,12],ourselv:0,outcom:5,outgo:[0,4],output:[0,1,2],outputspeech:[0,1],outsid:4,over:[1,3,4],overriden:13,owl:[1,2],own:[0,4,9,12,13],packag:5,padlock:13,page:[3,5],pain:2,pair:[3,4],palett:[6,9,12],panel:[9,13],paradigm:5,part:[4,5,6,8,9,11,13],partial:3,participant_nam:4,party_s:4,pass:[3,4,9],past:[0,3,4,5,6,8,9,11,12,13],payload:[0,3,4,5,6,8,9,11,12,13],payment:13,pencil:[1,2,9],peopl:4,perfect:0,perform:[0,2,4,5],perk:12,persist:[0,1,3,4,9],perviou:[0,5],phase:1,phone:[0,9,12,13],photo:12,phrase:[2,5],pick:[0,5],pictur:[4,11],piec:9,place:[3,4,5,9,11,12],plai:[0,3,5,12],plaintext:0,platform:[3,4,7,10],pleas:[0,1,2,3,4,5,9],plu:9,plug:0,png:12,point:[1,4,5],polici:9,pop:[2,3,10],popul:[10,12],portion:8,posit:5,positive_respons:3,possibl:[4,9],post:11,pre:4,precis:4,predefin:9,predict:2,prefix:3,prepar:[5,7],present:4,press:[9,11,12,13],prevent:4,previou:[1,2,11,13],previous:9,price:4,primari:9,print:[9,13],prioriti:[4,5],privaci:[0,9],problem:[5,9],proce:[1,9],proceed:3,process:2,produc:[3,4,5],product:6,profil:9,program:[12,13],prompt:5,properti:[0,3,4,5,9,11,12,13],protect:9,provid:[0,2,4,5,7,8,9,10,11,12,13],publish:0,push:12,put:5,queri:4,quick:[6,7],quickli:2,quota:11,rain:6,random:[1,6,11],randomcat:11,randomli:5,rank:4,rate:[5,12],rather:4,raw:[3,11],raw_messag:11,raw_message_properti:11,reach:[3,4,11],read:[9,13],readi:[5,11],real:[0,3,9],receiv:[4,6,8,9,11,12,13],recent:5,recipi:[6,13],recognit:0,recommend:[0,13],reconsid:3,recreat:1,red:[3,4],redefin:13,redeploi:11,redicrect_uri:11,redirect:9,ref:6,refer:[5,6,8],reflect:0,refresh:[9,10],regard:12,regex:4,region:0,regist:[0,8],registr:13,regular:2,reivew:5,reject:[4,5],relat:9,rememb:[1,4],remot:0,remov:[3,5,9,13],repeat:[0,5,6,11],replac:13,repli:[0,6],repres:4,represent:12,reproduc:2,reprompttext:1,req_pend:5,reqreadi:5,request_address:5,request_hour:5,request_more_opt:5,request_r:5,request_suggest:5,requir:[5,9,11,12],reserv:4,reset:[4,13],resourc:[7,9,10],respect:[2,3],respond:[0,5,10,11,12,13],respons:[0,3,4,5,9,12],rest:[0,4,9],restaur:5,restaurant_nam:4,restful:3,restor:9,restrict:3,result:[3,4],retriev:[1,9],revers:7,review:[5,12],review_count:[5,12],ride:9,right:[1,3,4,6,8,10,11,12,13],robust:5,room:4,rough:12,router:[0,1],rule:9,run:[4,13],sai:[0,1,2,3,4,5,10],said:[0,3,5],same:[0,1,4,5,8,9],san:5,satisfi:4,save:[5,6,9,11,12,13],scan:8,scenario:[5,9],schema:[0,1,2],scope:9,screen:[3,4,13],screenshot:12,seafood:12,seamlessli:5,search:[5,6,12,13],seattl:[5,12],second:[0,5,9,13],secret:[5,9,11,12],section:[0,2,3,4,5,6,8,9,10,11,12,13],see:[0,1,3,4,5,6,8,9,11,13],select:[0,1,3,4,5,6,8,9,10,11,12],selectbot:[11,12],send:[0,1,4,6],sender:[6,8,13],sendvenu:12,sens:4,sensit:3,sent:[0,4,8,11,12,13],sentenc:[0,3],separ:6,seq:6,sequenc:[4,6],serv:11,server:[8,9,11,12],servic:[0,1,4,7],session:[0,1,3,6,7,9,11,12],sessionattribut:[0,1],sessionendedrequest:0,sessionid:0,set:[0,1,3,4,5,6,7],setinlin:12,setinlinegeo:12,setup:1,setupnam:[1,2],setupnamewhoint:[1,2],sever:[4,10],shall:3,share:[9,12],shift:5,should:[0,2,3,4,5,6,8,9,11,12,13],shouldendsess:0,show:[0,2,3,6,8,11,12,13],showcas:5,shown:[2,3,4,9,13],sid:13,side:[10,11,13],sign:[5,13],similar:5,similarli:1,simpl:[0,3,5],simpli:[0,3,4],simplic:9,simplifi:9,simplist:12,simul:[0,1],sinc:3,singl:[0,3],situat:5,six:4,skip:[6,9,13],slack:7,slash:7,slot:[0,1,2],slowli:0,small:[5,11],smart:[0,7],smooth:[0,2],sms:[4,7,9,13],snow:[1,2],solid:4,solut:2,some:9,someon:12,someth:[3,5,8],sorri:[3,5],sound:5,sourc:[0,1,9],speak:1,special:[3,9],specif:[0,3,4,5,8,9],specifi:[0,3,9],speech:[0,1,2,5,7],speechpunchlin:1,speechtext:1,spell:[1,2],split:[9,12,13],split_len:12,ssml:[0,1],stage:1,stai:12,star:5,start:[0,3],start_citi:9,state:0,state_choic:5,statu:5,step:[0,1,2,6,9,11],sticker:12,still:[0,1,2,4,5,7,9,12],stop:9,stopintent:1,storag:9,store:[1,3,5,6,9],str:5,string:[0,3,4,6,8,11,13],structur:[0,12],style:2,sub:13,submit:[0,3],subscrib:6,subscript:6,successfulli:[1,11],sue:4,suggest:[0,5,8],superint:0,support:[0,1,2,3,5,7,8,11,12],sure:[3,5,13],symbol:4,system:[2,3,4,5],tab:[3,4,5,9,10],taco:5,tag:[0,1,3,5,8,11,12,13],take:[1,5,9,12],taken:13,talk:[10,12],tap:8,task:10,teach:2,telegram:[7,11],tellmeajokeint:[1,2],templat:3,ten:5,term:[5,9],text:[0,1,3,5,6,7,8,9,11,12,13],than:[3,4,9],thank:[3,5],thei:[0,4,9,11],them:[0,2,3,5,6,8,9,11,12,13],thi:[0,1,2,3,4,5,6,7,8,9,10,11,12,13],thing:2,think:4,third:[5,9,13],those:[0,5,9,13],thought:4,three:[0,2,5,11],through:[0,1,3,4],throughout:[4,5],thu:[1,3],thumb_url:12,tidi:[11,12,13],time:[0,1,3,4,5,9,12,13],timeout:[6,12],timestamp:6,titl:12,togeth:[3,5,8],token:[0,3,4,5,6,8],tokyo:5,too:[4,8,9,13],tool:0,top:[3,8],touch:8,toward:3,train:3,tri:9,trial:13,trick:0,trim:12,truli:0,tune:13,twilio:[4,7],twitter:10,two:[0,3,4,5,9,11,12],type:[0,1,2,4,5,8,10,12],typic:4,uber:[4,7],uber_oauth2:9,ultim:0,unchang:[9,13],under:[0,3,4,5,6,7,10,11,12],understand:[0,3,4],unicod:13,uniqu:[8,11,12],univeristi:5,unlik:4,unlike:4,unpublish:0,updat:[3,4,5],update:4,upon:9,upper:[3,6,8,9,11,12],uri:11,url:[0,1,3,4,5,6,8,9],usabl:9,usag:0,use:[1,3,5,6,8,9,10,11,12],user:[0,1,2,3,4],user_choic:5,userid:0,usernam:[8,11,12],using:[1,8],usual:4,utter:[0,1,2,3,4,5],valid:9,valu:[0,4,5,6,9,13],vari:4,variabl:[1,3,4,5,8,11,13],variou:[7,10],venu:12,verbatim:0,verbos:2,veri:[0,9],verif:6,verifi:6,version:0,via:[1,4,9,12],viabl:4,view:[11,12,13],visibl:13,visit:[1,4,11],visual:7,vocabulari:[0,4],voic:0,vote:11,wai:[0,3,4,7,9,13],wait:[0,3,10],walk:[1,3,5,9],walkthrough:0,want:[0,4,5,9,12,13],washington:5,web:[4,8,9,10],webhook:[0,6,11],welcom:[0,5],well:5,were:9,what:[0,1,2,3,4,5],when:[0,1,3,4,5,6,8,9,10,11,12,13],whenev:[1,3,4,5,11],where:[4,5,6,8,9,10],whether:[3,5],which:[0,3,4,5,8,9,13],whistl:7,who:[0,1,2],whole:[0,1,13],whom:1,whosthereint:[1,2],wildcard:0,window:[3,9,12],wire:[3,4,12],wise:[1,2],wish:[3,5],within:[1,2,3,4],without:[0,1,3,9,13],won:9,woo:[1,2],word:[0,4],work:[0,1,4,5,7,11,12],workspac:6,world:[4,9,10],would:[0,3,5,6,8],wrap:[0,4],wrapper:4,write:[5,8,11,13],written:6,wrong:9,xuchen:8,xxx:[3,4,5,6,8,11],yeah:5,yellow:13,yelp:4,yelp_result:5,yet:[3,5,9],you:[0,1,2,3,5,6,8,9,10,11,12,13],yourself:10,zero:4,zip:5},titles:["Alexa Skill Tutorials","Advanced Alexa Skill Tutorial","Advanced Alexa Skill NLU Tutorial","ChatFlow Build A Bot Tutorial","Dialogue Nodes","Extended Example: A Conversational Yelp Bot","Facebook Tutorials","Welcome to ChatFlow","Kik Bot Tutorials","OAuth2/Uber Tutorials","ChatFlow Quick Start","Slack Bot Tutorials","Telegram Bot Tutorials","Twilio Bot Tutorials"],titleterms:{"case":[3,5],"export":[2,3],"final":[4,5],"function":13,"import":[3,6,8,11,12],"new":[6,10,11,12,13],about:5,access:[9,10],account:13,acquir:12,add:[3,13],adding:3,advanc:[0,1,2,6,8,11,13],alexa:[0,1,2],answere:5,api:[4,12],app:[0,1,3,8,10,11,13],applic:[6,8,9,11],applicat:[1,8,9,11,12,13],ask:0,attach:8,attachment:8,aware:12,basic:[4,13],bot:[0,3,5,6,8,9,11,12,13],browser:8,build:3,button:6,card:0,cat:[0,8,11],certif:0,chatflow:[0,1,3,4,6,7,8,10,11,12,13],choic:5,choos:11,collect:5,color:8,command:11,companion:0,configur:[0,3,4,5,9,11,12,13],connect:11,content:[0,1,2,3,4,5,6,7,8,9,10,11,12,13],convers:[3,5],copi:0,creat:[0,1,2,3,5,6,8,9,10,11,12,13],credenti:12,custom:8,deal:3,debug:13,demo:8,deploi:[3,11,12,13],descripton:9,dialogu:4,direct:4,echo:[0,6,8,11,12],enter:[3,4],exampl:5,explain:1,extend:5,facebook:6,finish:0,flow:[4,5,9,12],forecast:6,format:2,free:3,from:[3,4,5,10,13],fulfil:5,get:5,informat:[0,5],initial:5,inline:12,input:[3,4],intent:0,interact:11,introduct:[0,1,2,3,5,9,10,13],joke:1,keyboard:8,kik:8,knock:1,languag:3,launch:0,link:4,locat:12,lunch:3,messag:11,miss:5,mobil:8,more:0,multi:1,natur:3,nlu:[2,3,4,5,6,8,11],node:[0,3,4,6,8,9,11,12,13],oauth2:9,onli:4,ordere:4,out:[0,6,8,11,12,13],output:[3,4],overview:1,page:6,prefer:4,prepar:13,present:5,process:3,project:[2,5,10],queri:5,question:5,quick:10,reconfigur:3,redirect:11,regist:9,reprompt:0,request:[0,5],result:5,reus:9,revers:13,router:[3,4,13],sampl:[0,10],scratch:[3,13],send:8,servic:9,session:13,set:[8,11,12],setup:[6,8,11,12],simpl:[6,8,9,11,12,13],skill:[0,1,2],slack:11,slash:11,ssl:0,start:[5,10],state:[1,3,4],statu:12,summari:[2,4],support:13,tabl:[0,1,2,3,4,5,6,8,9,10,11,12,13],team:11,telegram:12,tell:[0,1],templat:6,test:[0,9,11],thought:5,through:5,todo:[8,11],token:[9,12],track:1,turn:1,tutori:[0,1,2,3,6,8,9,11,12,13],twilio:13,uber:9,unabl:3,understand:5,url:11,user:5,utteranc:0,video:[0,1,3,6,8,9,11,12,13],walkthrough:[3,8,12],weather:6,welcom:7,wisegui:1,yelp:[5,12],your:[0,5,11]}})

diff --git a/chatflow/alexa.html b/chatflow/alexa.html
@@ -255,7 +255,14 @@ skill. We will also walkthrough a simple Alexa skill that repeats user input.</p
 <span id="echo-bot-video-walkthrough"></span><h3><a class="toc-backref" href="#id11">Echo Bot Tutorial Video</a><a class="headerlink" href="#echo-bot-tutorial-video" title="Permalink to this headline">¶</a></h3>
 <iframe width="640" height="360" src="https://www.youtube.com/embed/gJchjcdQPnU"
     frameborder="0" allowfullscreen></iframe>
-<br> <br> <br></div>
+<br> <br> <br><div class="admonition warning">
+<p class="first admonition-title">Warning</p>
+<p class="last">The Copy Cat demo uses <code class="docutils literal"><span class="pre">AMAZON.LITERAL</span></code> for a truly open-vocabulary
+speech recognition experience. However, starting <a class="reference external" href="https://developer.amazon.com/public/solutions/alexa/alexa-skills-kit/docs/alexa-skills-kit-interaction-model-reference#literal-slot-type-reference">November 16, 2016</a>,
+Amazon will not <em>certify</em> skills that use <code class="docutils literal"><span class="pre">AMAZON.LITERAL</span></code> (but they still work as your
+own demo skills).</p>
+</div>
+</div>
 <div class="section" id="create-an-alexa-copy-cat-chatflow-app">
 <h3><a class="toc-backref" href="#id12">1. Create an Alexa Copy Cat Chatflow app</a><a class="headerlink" href="#create-an-alexa-copy-cat-chatflow-app" title="Permalink to this headline">¶</a></h3>
 <ol class="arabic simple">
@@ -274,11 +281,6 @@ skill. We will also walkthrough a simple Alexa skill that repeats user input.</p
 <li>Copy the &#8220;Final URL&#8221; onto your clipboard. It will be used later in Step
 <a class="reference internal" href="#alexa-config"><span class="std std-ref">Configuration</span></a>.</li>
 </ol>
-<div class="admonition-todo admonition" id="index-0">
-<p class="first admonition-title">Todo</p>
-<p class="last">re-take this pic to change <code class="docutils literal"><span class="pre">chatflow-test</span></code> to <code class="docutils literal"><span class="pre">chatflow</span></code>
-after production server is deployed.</p>
-</div>
 <p>Now let&#8217;s go to the Amazon developer console and register an Alexa skill there.</p>
 </div>
 <div class="section" id="create-an-alexa-skill">
@@ -347,9 +349,16 @@ recognition, while everything will be tagged as a single <code class="docutils l
 <div class="section" id="configuration">
 <span id="alexa-config"></span><h4><a class="toc-backref" href="#id16">Configuration</a><a class="headerlink" href="#configuration" title="Permalink to this headline">¶</a></h4>
 <ol class="arabic simple" start="5">
-<li>Paste the &#8220;Final URL&#8221; from <strong>Alexa In</strong> node:</li>
+<li>Paste the &#8220;Final URL&#8221; from <strong>Alexa In</strong> node and choose the <strong>North America</strong> region:</li>
 </ol>
 <img alt="_images/skill-config.png" class="align-center" src="_images/skill-config.png" />
+<div class="admonition note">
+<p class="first admonition-title">Note</p>
+<p class="last">The <code class="docutils literal"><span class="pre">AMAZON.LITERAL</span></code> slot is only supported in US English,
+but not UK English or German (<a class="reference external" href="https://developer.amazon.com/public/solutions/alexa/alexa-skills-kit/docs/alexa-skills-kit-interaction-model-reference#literal-slot-type-reference">source</a>).
+So please only select <strong>North America</strong> here. For migrating <code class="docutils literal"><span class="pre">AMAZON.LITERAL</span></code>,
+check out the <a class="reference external" href="https://developer.amazon.com/public/solutions/alexa/alexa-skills-kit/docs/migrating-to-the-improved-built-in-and-custom-slot-types#replacing-literal-with-custom-slot-types">migration guide</a> to custom slots.</p>
+</div>
 </div>
 <div class="section" id="ssl-certificate">
 <h4><a class="toc-backref" href="#id17">SSL Certificate</a><a class="headerlink" href="#ssl-certificate" title="Permalink to this headline">¶</a></h4>
@@ -560,7 +569,7 @@ tutorial <a class="reference internal" href="alexa_advanced.html#alexa-advanced-
   <div role="contentinfo">
     <p  style="color:#999;">
         &copy; Copyright 2016, KITT.AI.
-      Last updated on Sep 19, 2016.
+      Last updated on Sep 23, 2016.
 
     </p>
   </div> 

diff --git a/chatflow/extended_example.html b/chatflow/extended_example.html
@@ -1101,7 +1101,7 @@ Sample Project&#8221; on the <a class="reference external" href="https://chatflo
   <div role="contentinfo">
     <p  style="color:#999;">
         &copy; Copyright 2016, KITT.AI.
-      Last updated on Sep 19, 2016.
+      Last updated on Sep 23, 2016.
 
     </p>
   </div> 

diff --git a/chatflow/oauth2.html b/chatflow/oauth2.html
@@ -530,7 +530,7 @@ credentials it obtained and stored in the mock &#8220;database&#8221; (<code cla
   <div role="contentinfo">
     <p  style="color:#999;">
         &copy; Copyright 2016, KITT.AI.
-      Last updated on Sep 19, 2016.
+      Last updated on Sep 23, 2016.
 
     </p>
   </div> 

diff --git a/chatflow/telegram.html b/chatflow/telegram.html
@@ -784,7 +784,7 @@ look at the full tutorial of <a class="reference internal" href="extended_exampl
   <div role="contentinfo">
     <p  style="color:#999;">
         &copy; Copyright 2016, KITT.AI.
-      Last updated on Sep 19, 2016.
+      Last updated on Sep 23, 2016.
 
     </p>
   </div> 

diff --git a/chatflow/index.html b/chatflow/index.html
@@ -297,7 +297,7 @@ few more bells and whistles, but otherwise, it is complete!</p>
   <div role="contentinfo">
     <p  style="color:#999;">
         &copy; Copyright 2016, KITT.AI.
-      Last updated on Sep 19, 2016.
+      Last updated on Sep 23, 2016.
 
     </p>
   </div> 

diff --git a/chatflow/quickstart.html b/chatflow/quickstart.html
@@ -282,7 +282,7 @@ waiting to be created! Are you up to the task?</p>
   <div role="contentinfo">
     <p  style="color:#999;">
         &copy; Copyright 2016, KITT.AI.
-      Last updated on Sep 19, 2016.
+      Last updated on Sep 23, 2016.
 
     </p>
   </div> 

diff --git a/chatflow/build_a_bot.html b/chatflow/build_a_bot.html
@@ -715,7 +715,7 @@ and configure it to your ChatFlow App.</p>
   <div role="contentinfo">
     <p  style="color:#999;">
         &copy; Copyright 2016, KITT.AI.
-      Last updated on Sep 19, 2016.
+      Last updated on Sep 23, 2016.
 
     </p>
   </div> 

diff --git a/chatflow/dialogue_nodes.html b/chatflow/dialogue_nodes.html
@@ -479,7 +479,7 @@ learn more about how they work!</p>
   <div role="contentinfo">
     <p  style="color:#999;">
         &copy; Copyright 2016, KITT.AI.
-      Last updated on Sep 19, 2016.
+      Last updated on Sep 23, 2016.
 
     </p>
   </div> 

diff --git a/chatflow/alexa_advanced.html b/chatflow/alexa_advanced.html
@@ -469,7 +469,7 @@ the <em>knock knock</em> joke!</p>
   <div role="contentinfo">
     <p  style="color:#999;">
         &copy; Copyright 2016, KITT.AI.
-      Last updated on Sep 19, 2016.
+      Last updated on Sep 23, 2016.
 
     </p>
   </div> 

diff --git a/chatflow/twilio.html b/chatflow/twilio.html
@@ -550,7 +550,7 @@ Twilio In/Out nodes manually.</p>
   <div role="contentinfo">
     <p  style="color:#999;">
         &copy; Copyright 2016, KITT.AI.
-      Last updated on Sep 19, 2016.
+      Last updated on Sep 23, 2016.
 
     </p>
   </div> 

diff --git a/chatflow/kik.html b/chatflow/kik.html
@@ -525,7 +525,7 @@ you a specific color cat.</p>
   <div role="contentinfo">
     <p  style="color:#999;">
         &copy; Copyright 2016, KITT.AI.
-      Last updated on Sep 19, 2016.
+      Last updated on Sep 23, 2016.
 
     </p>
   </div> 
